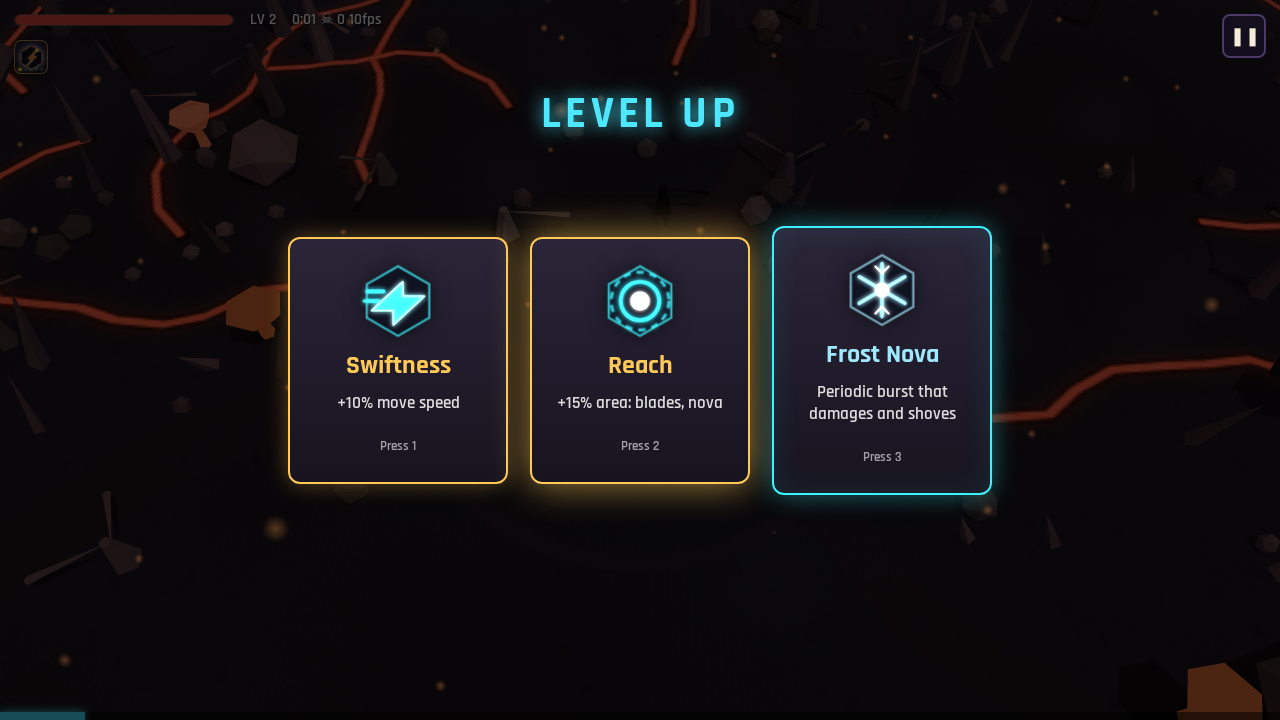
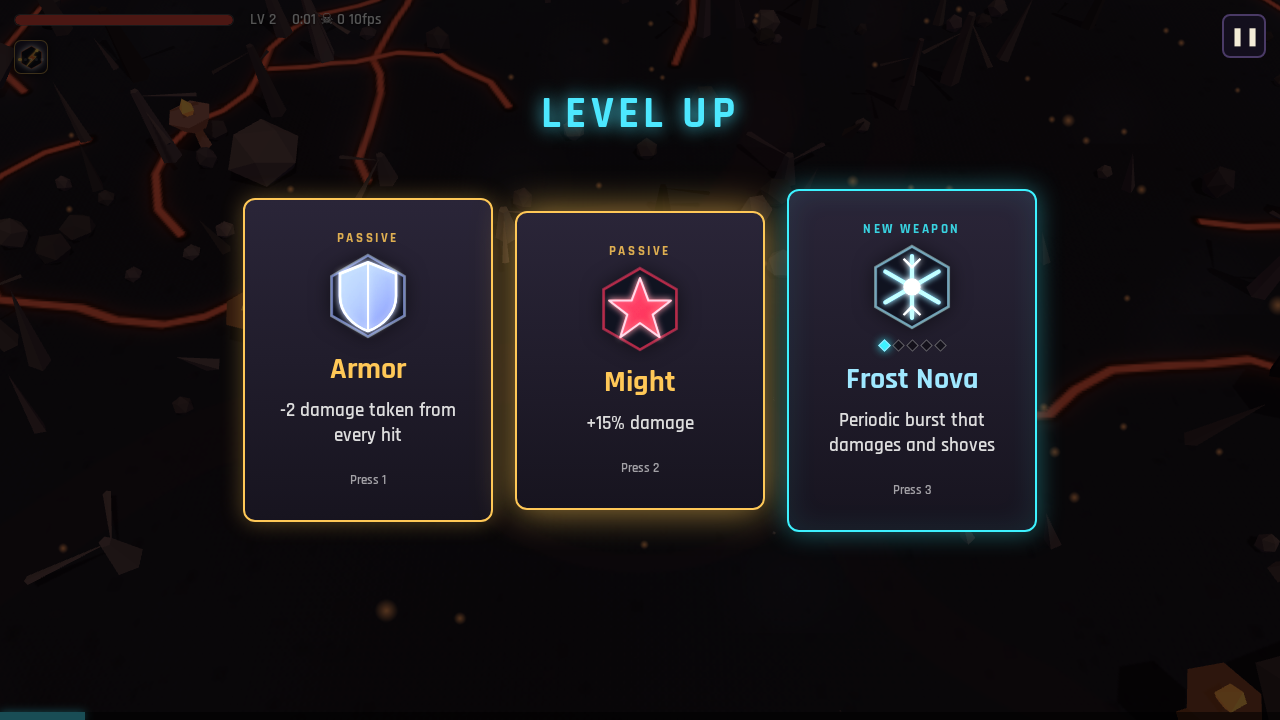
UI: card type tags, tier pips, ~15% larger

diff --git a/src/game/ui/hud.ts b/src/game/ui/hud.ts
@@ -22,6 +22,9 @@ export function mountHud(root: HTMLElement, onChoose: (i: number) => void) {
   .card{width:220px;padding:26px 18px;background:linear-gradient(#2a2538,#17141f);border:2px solid #ffc857;border-radius:12px;text-align:center;cursor:pointer;font-family:Rajdhani,system-ui,sans-serif;transition:transform .12s;box-shadow:0 0 22px #ffc85755}
   .card{animation:cardIn .35s cubic-bezier(.2,1.4,.4,1) both;position:relative;overflow:hidden}.card:nth-child(2){animation-delay:.07s}.card:nth-child(3){animation-delay:.14s}.card:nth-child(4){animation-delay:.21s}
   @keyframes cardIn{from{opacity:0;transform:translateY(40px) scale(.9)}to{opacity:1;transform:none}}
+  .card{width:250px!important;padding:30px 22px!important}.card h3{font-size:30px!important}.card p{font-size:19px!important}.card svg{width:84px;height:84px}
+  .card .tag{font:700 13px Rajdhani,system-ui,sans-serif;letter-spacing:.2em;color:#ffc857;opacity:.85;margin-bottom:8px}.card.w .tag{color:#3df2ff}
+  .pips{display:flex;gap:5px;justify-content:center;margin:2px 0 10px}.pips i{width:9px;height:9px;transform:rotate(45deg);border:1px solid #ffffff55;background:#0006}.pips i.on{background:#3df2ff;border-color:#9fe8ff;box-shadow:0 0 8px #3df2ff}
   .card.w{border-color:#3df2ff;box-shadow:0 0 26px #3df2ff66,inset 0 0 30px #3df2ff18}.card.w h3{color:#9fe8ff}
   .card::after{content:'';position:absolute;inset:-60% -30%;background:linear-gradient(105deg,transparent 42%,#ffffff22 50%,transparent 58%);transform:translateX(-120%);transition:transform .6s}.card:hover::after{transform:translateX(120%)}
   .card svg{animation:iconPulse 2.2s ease-in-out infinite}@keyframes iconPulse{50%{transform:scale(1.07);filter:brightness(1.25)}}
@@ -67,7 +70,8 @@ export function mountHud(root: HTMLElement, onChoose: (i: number) => void) {
       if (!key) cards.style.display = 'none';
       else { cards.style.display = 'flex'; cards.innerHTML = '<h2>LEVEL UP</h2>'; s.levelChoices.forEach((id, i) => {
         const u = upgradeDef(id), w = p.weapons.find(w => 'w:' + w.id === id), c = document.createElement('div'); c.className = id.startsWith('w:') ? 'card w' : 'card';
-        c.innerHTML = `<div style="filter:drop-shadow(0 0 10px #0008);margin-bottom:6px">${iconSvg(id)}</div><h3>${u.name}</h3><p>${u.desc}</p><br><small>${w ? 'Lv ' + w.level + ' → ' + (w.level + 1) : 'Press ' + (i + 1)}</small>`;
+        const isW = id.startsWith('w:'), tag = w ? 'LV ' + w.level + ' → ' + (w.level + 1) : isW ? 'NEW WEAPON' : 'PASSIVE', pips = isW ? '<div class="pips">' + [1, 2, 3, 4, 5].map(n => '<i class="' + (n <= (w ? w.level + 1 : 1) ? 'on' : '') + '"></i>').join('') + '</div>' : '';
+        c.innerHTML = `<div class="tag">${tag}</div><div style="filter:drop-shadow(0 0 10px #0008);margin-bottom:6px">${iconSvg(id)}</div>${pips}<h3>${u.name}</h3><p>${u.desc}</p><br><small>${w ? 'Lv ' + w.level + ' → ' + (w.level + 1) : 'Press ' + (i + 1)}</small>`;
         c.onclick = () => pick(i); cards.appendChild(c); }); }
     }
   } };
